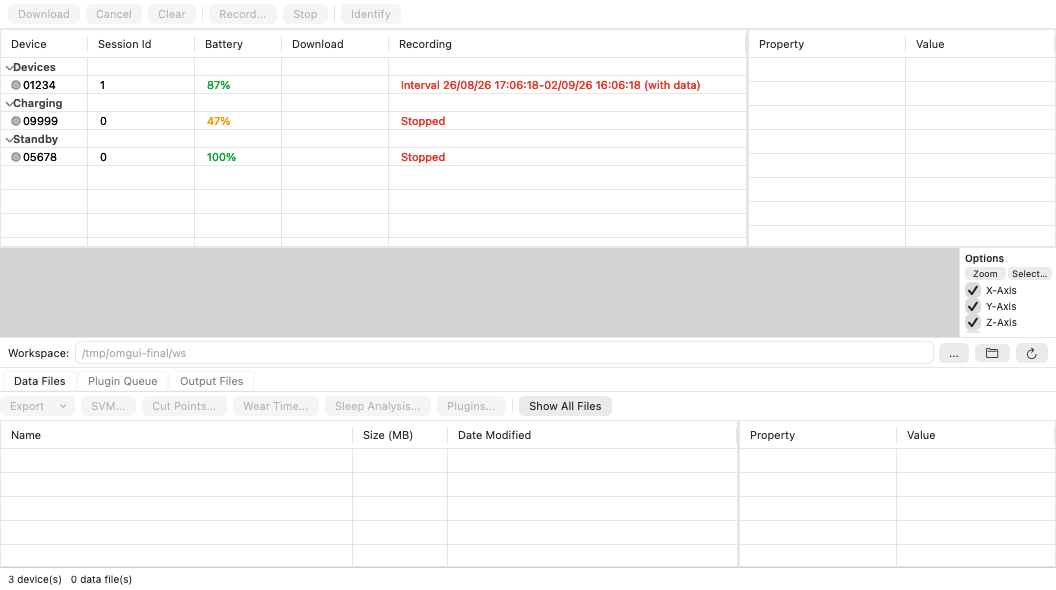
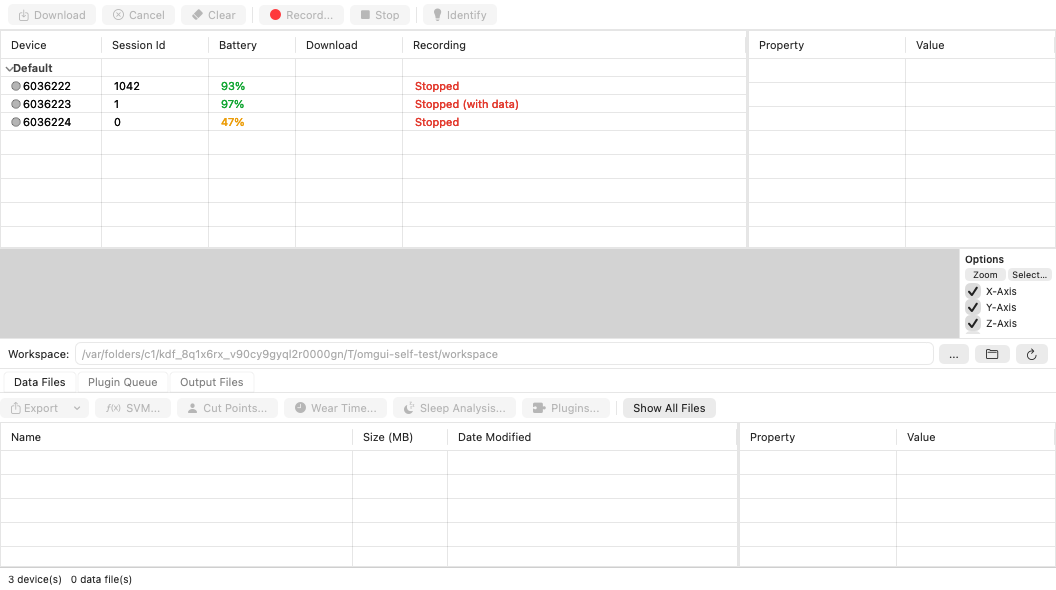
--self-test: assert the refs/08 items the window has to show, and shoot the SOP
Eighteen CHECK lines, and a non-zero exit if any fails. Five of them can only be
made against the running app: the title bar text, the "Default" header read back
out of the NSOutlineView, the Device column measured against its widest cell, the
Record-disabled-with-data rule as the toolbar renders it, and that every SF Symbol
resolves on this OS. The rest -- the initial profile, the gyro warning verbatim,
the Form 2 line in the Log and the status bar -- are asserted where they happen.

The same leg captures the eight screenshots docs/SOP-mac.md embeds, before the run
has touched the devices, and puts the device back the way the rest of the run
expects to find it. The Log is cleared before the record so the screenshot shows
the app's output rather than the transcript; the preview pane is folded away for
the two Data Files shots.

A bare `--self-test` now empties its workspace as well as its mock volumes: a
previous run's recordSetup.xml would hide the "no profile yet" path the MOP's
initial recording profile depends on.

refs/screenshots/01-main-window.png and 06-recording-settings.png refreshed, with
the transcript.

Claude-Session: https://claude.ai/code/session_018VVjoe4ZJFTb1noWa99Xhn

diff --git a/Sources/OmGui/SelfTest+Mop.swift b/Sources/OmGui/SelfTest+Mop.swift
@@ -1,0 +1,207 @@
+import AppKit
+import Foundation
+import OmApi
+import OmGuiCore
+
+/// The MOP-alignment half of `--self-test`.
+///
+/// Two jobs: assert the things `refs/08-aria-mop-omgui-steps.md` pins down that only the running
+/// window can show (the title, the "Default" group header, an un-truncated 7-digit device ID, the
+/// Record-disabled-with-data rule, the toolbar icons), and capture the screenshots
+/// `docs/SOP-mac.md` embeds.
+extension SelfTest {
+
+    /// The text of the device table as the window actually renders it: `[Group]` rows and the
+    /// Device column of each device row, read back out of the `NSOutlineView`.
+    @MainActor
+    static func deviceTableOutline() -> String {
+        guard let root = mainWindow?.contentView else { return "(no window)" }
+        var found: NSOutlineView?
+        func walk(_ view: NSView) {
+            if found == nil, let outline = view as? NSOutlineView,
+               outline.tableColumns.first?.title == "Device" {
+                found = outline
+            }
+            for sub in view.subviews { walk(sub) }
+        }
+        walk(root)
+        guard let outline = found else { return "(no device table)" }
+        var parts: [String] = []
+        for row in 0..<outline.numberOfRows {
+            guard let node = outline.item(atRow: row) as? GroupedTableView.Node else { continue }
+            if node.isGroup { parts.append("[\(node.title)]") }
+            else { parts.append(node.row?.cells.first?.text ?? node.id) }
+        }
+        return parts.joined(separator: " ")
+    }
+
+    /// The width the Device column would need for its widest cell, so a 7-digit ID that is being
+    /// clipped shows up as a failure rather than as a screenshot nobody looks at twice.
+    @MainActor
+    static func deviceColumnFits() -> (fits: Bool, needed: CGFloat, width: CGFloat) {
+        guard let root = mainWindow?.contentView else { return (false, 0, 0) }
+        var found: NSOutlineView?
+        func walk(_ view: NSView) {
+            if found == nil, let outline = view as? NSOutlineView,
+               outline.tableColumns.first?.title == "Device" {
+                found = outline
+            }
+            for sub in view.subviews { walk(sub) }
+        }
+        walk(root)
+        guard let outline = found, let column = outline.tableColumns.first else { return (false, 0, 0) }
+        var needed: CGFloat = 0
+        for row in 0..<outline.numberOfRows {
+            guard let node = outline.item(atRow: row) as? GroupedTableView.Node,
+                  let text = node.row?.cells.first?.text, !text.isEmpty else { continue }
+            let size = (text as NSString).size(withAttributes: [.font: NSFont.systemFont(ofSize: 11)])
+            // The device rows also carry the LED icon plus the cell's own insets.
+            needed = max(needed, size.width + 24)
+        }
+        return (needed <= column.width, needed, column.width)
+    }
+
+    /// Everything in `refs/08` items 1-3, 6 and 9 that needs the running window.
+    @MainActor
+    static func checkMopAlignment(model: AppModel,
+                                  say: @MainActor (String) -> Void,
+                                  expect: @MainActor (Bool, String) -> Void) {
+        // 3. Window title.
+        let title = mainWindow?.title ?? ""
+        say("title: \(title)")
+        expect(title == AppInfo.windowTitle(workspace: model.workspace),
+               "the window title is \"Open Movement [V<version>] - <workspace>\"")
+        expect(title.hasPrefix("Open Movement [V") && title.contains("] - /"),
+               "the title carries a version and an absolute workspace path")
+
+        // 1. One group header, reading "Default".
+        let outline = deviceTableOutline()
+        say("device table: \(outline)")
+        expect(outline.hasPrefix("[\(DeviceGroup.defaultTitle)]"),
+               "the device list has one group header and it reads \"Default\"")
+        expect(outline.components(separatedBy: "[").count == 2,
+               "no other group header is drawn")
+
+        // 9. Seven-digit IDs, in full.
+        let ids = model.rows.map(\.deviceText)
+        say("device IDs: \(ids.joined(separator: ", "))")
+        expect(ids.contains(String(MockDeviceCatalog.mopDeviceId)),
+               "the MOP's device \(MockDeviceCatalog.mopDeviceId) is listed with all seven digits")
+        let fit = deviceColumnFits()
+        say(String(format: "Device column: %.0f pt wide, widest cell needs %.0f pt", fit.width, fit.needed))
+        expect(fit.fits, "the Device column is wide enough for a 7-digit ID")
+
+        // 2. Every toolbar button has an icon that this OS can draw.
+        var missing: [String] = []
+        for (title, icon) in ToolbarIcon.all where icon.nsImage() == nil {
+            missing.append("\(title)=\(icon.symbol)")
+        }
+        say("toolbar icons: " + ToolbarIcon.all.map { "\($0.0)=\($0.1.symbol)" }.joined(separator: " "))
+        expect(missing.isEmpty, "every toolbar icon resolves (missing: \(missing.joined(separator: ", ")))")
+        expect(ToolbarIcon.clear.symbol == "eraser.fill", "Clear has the eraser icon the MOP names")
+    }
+
+    /// The screenshots `docs/SOP-mac.md` embeds, captured from the real window before anything
+    /// else in the run has touched the devices.
+    ///
+    /// It configures a recording on the MOP's device and stops it again, so the rest of the
+    /// self test still finds the device cleared and stopped.
+    @MainActor
+    static func captureSopImages(model: AppModel,
+                                 say: @MainActor (String) -> Void,
+                                 shot: @MainActor (String) async -> Void,
+                                 pause: @MainActor (Double) async -> Void,
+                                 expect: @MainActor (Bool, String) -> Void) async {
+        model.selectedDeviceIds = []
+        model.selectionChanged()
+        await shot("sop-01-main-window.png")
+
+        // 9.4.2 step 2: select the device.
+        model.selectedDeviceIds = [MockDeviceCatalog.mopDeviceId]
+        model.selectionChanged()
+        guard let mopRow = model.rows.first(where: { $0.deviceId == MockDeviceCatalog.mopDeviceId }) else {
+            say("WARNING: the MOP device is not in the list")
+            return
+        }
+        say("MOP device row: \(mopRow.deviceText) | \(mopRow.sessionText) | \(mopRow.batteryText)"
+            + " | \(mopRow.downloadText) | \(mopRow.recordingText)")
+        expect(mopRow.recordingText == "Stopped", "the MOP device reads \"Stopped\"")
+        expect(model.toolbar.record, "Record is live for a cleared device")
+        await shot("sop-02-device-selected.png")
+
+        // 6. The troubleshooting case: a device that still holds data.
+        model.selectedDeviceIds = [MockDeviceCatalog.mopDeviceWithDataId]
+        model.selectionChanged()
+        if let withData = model.rows.first(where: { $0.deviceId == MockDeviceCatalog.mopDeviceWithDataId }) {
+            say("device with data: \(withData.deviceText) recording=\(withData.recordingText)"
+                + " record=\(model.toolbar.record) download=\(model.toolbar.download) clear=\(model.toolbar.clear)")
+            expect(withData.recordingText == "Stopped (with data)",
+                   "a device holding a recording reads \"Stopped (with data)\"")
+            expect(!model.toolbar.record, "Record is greyed out for a device that has data")
+            expect(model.toolbar.download && model.toolbar.clear,
+                   "Download and Clear are live for a device that has data")
+        }
+        await shot("sop-03-record-greyed.png")
+
+        // 9.4.2 steps 3-4: the Recording Settings dialog.
+        model.selectedDeviceIds = [MockDeviceCatalog.mopDeviceId]
+        model.selectionChanged()
+        model.openRecordingSettings()
+        await pause(0.5)
+        guard let sheet = model.recordingSheet else {
+            say("WARNING: the Recording Settings sheet did not open")
+            return
+        }
+        // 5. The MOP's starting values, because this workspace has no recordSetup.xml yet.
+        let seeded = sheet.settings
+        say("initial profile: freq=\(RecordingSettings.frequencyLabels[seeded.frequencyIndex])"
+            + " range=\(RecordingSettings.rangeLabels[seeded.rangeIndex])"
+            + " gyro=\(RecordingSettings.gyroLabels[seeded.gyroIndex])"
+            + " immediately=\(seeded.immediately)")
+        expect(seeded.sampleRate == .hz100 && seeded.accelRange == .g16
+                && seeded.gyroIndex == 0 && seeded.immediately,
+               "a fresh workspace opens at 100 Hz, +-16 g, gyro disabled, Immediately on Disconnect")
+        expect(seeded.hasSyncGyro, "the MOP device is an AX6, so the Gyro combo is shown")
+        let warnings = seeded.validate().warningText ?? ""
+        say("warnings: " + warnings.replacingOccurrences(of: "\n", with: " / "))
+        expect(warnings.contains(RecordingSettings.warningMessages[10]),
+               "the gyro-disabled warning is shown verbatim")
+
+        sheet.settings.sessionId = 1042
+        await pause(0.4)
+        await shot("sop-04-recording-settings.png")
+
+        // The screenshot below is of the Log pane, so drop the transcript this run has been
+        // writing into it: what should be readable is the app's own output.
+        model.clearLog()
+        model.commitRecording(sheet.settings, devices: sheet.devices)
+        model.recordingSheet = nil
+        for _ in 0..<200 where model.progressSheet != nil { await pause(0.1) }
+        await pause(0.6)
+        model.rebuildRows()
+
+        // 8. The Form 2 line, in the Log pane and the status bar.
+        model.showLog = true
+        await pause(0.4)
+        let expected = "Recording configured on \(MockDeviceCatalog.mopDeviceId): session 1042, "
+        let logText = model.logText
+        let statusText = model.statusText
+        await shot("sop-05-record-confirmed.png")
+        model.showLog = false
+        await pause(0.3)
+        say("status bar: \(statusText)")
+        expect(logText.contains(expected),
+               "the Log pane carries \"Recording configured on <id>: session <n>, <date time>\"")
+        expect(statusText.hasPrefix(expected), "the status bar carries the same line")
+
+        // Put the device back the way the rest of the run expects to find it.
+        model.selectedDeviceIds = [MockDeviceCatalog.mopDeviceId]
+        model.selectionChanged()
+        model.stopRecording()
+        for _ in 0..<300 where model.progressSheet != nil { await pause(0.1) }
+        await pause(0.4)
+        model.rebuildRows()
+        model.selectedDeviceIds = []
+        model.selectionChanged()
+    }
+}

diff --git a/Sources/OmGui/SelfTest.swift b/Sources/OmGui/SelfTest.swift
@@ -39,6 +39,14 @@ enum SelfTest {
                 else { say("WARNING: could not capture \(name)") }
             }
 
+            // The run's own assertions: anything false here fails the process, so the
+            // transcript cannot claim a match the window does not show.
+            var failures: [String] = []
+            @MainActor func expect(_ condition: Bool, _ what: String) {
+                say("CHECK \(condition ? "ok" : "FAILED"): \(what)")
+                if !condition { failures.append(what) }
+            }
+
             say("backend = \(model.api.backend.name)")
             say("menu: " + menuOutline())
 
@@ -46,6 +54,10 @@ enum SelfTest {
             // `OmGui --mock --self-test` never writes into whatever workspace was last used.
             if model.options.selfTestUsedDefaults {
                 let scratch = folder.appendingPathComponent("workspace", isDirectory: true)
+                // A fresh workspace every run, for the same reason the mock volumes are reset: a
+                // previous run's `recordSetup.xml` would hide the "no profile yet" path the MOP's
+                // initial recording profile depends on.
+                try? FileManager.default.removeItem(at: scratch)
                 try? FileManager.default.createDirectory(at: scratch, withIntermediateDirectories: true)
                 model.setWorkingFolder(scratch.path, remember: false)
                 let mockRoot = (model.api.backend as? MockBackend)?.root.path ?? "(not the mock)"
@@ -62,6 +74,12 @@ enum SelfTest {
             model.rebuildRows()
             await pause(0.3)
             say("splits: " + splitOutline())
+            await shot("01-main-window.png")
+
+            // --- refs/08: the MOP alignment checks and the SOP screenshots --------------------
+            SelfTest.checkMopAlignment(model: model, say: say, expect: expect)
+            await SelfTest.captureSopImages(model: model, say: say, shot: shot, pause: pause,
+                                            expect: expect)
             await shot("01-main-window.png")
 
             // --- Selection drives the toolbar -----------------------------------------------
@@ -220,6 +238,11 @@ enum SelfTest {
             await SelfTest.runTools(model: model, say: say, shot: shot, pause: pause)
 
             say("prompts answered: \(prompter.transcript.joined(separator: " | "))")
+            guard failures.isEmpty else {
+                say("FAILED: " + failures.joined(separator: "; "))
+                model.shutdown()
+                exit(1)
+            }
             say("done")
             completion()
         }

diff --git a/Sources/OmGui/SelfTest+Tools.swift b/Sources/OmGui/SelfTest+Tools.swift
@@ -38,6 +38,17 @@ extension SelfTest {
         model.pluginQueue.removeAll()
         say("selected \(file.name) -> Data Files toolbar enabled = \(model.fileToolbarEnabled)")
 
+        // MOP §9.4.4 step 2: the downloaded file, selected in Data Files. Captured here rather
+        // than in the download leg so steps 2, 3 and 4 of the SOP are all the same device's file.
+        let hadFileProperties = model.showFileProperties
+        let hadPreviewPane = model.showPreview
+        model.showFileProperties = false
+        model.showPreview = false
+        await pause(0.3)
+        await shot("sop-06-data-files.png")
+        model.showFileProperties = hadFileProperties
+        model.showPreview = hadPreviewPane
+
         @MainActor func settle(_ what: String) async {
             for _ in 0..<600 where model.jobs.isBusy { await pause(0.1) }
             model.refreshFiles()
@@ -71,12 +82,26 @@ extension SelfTest {
             + " time=\(rawCsv.rawCsv.timestamp.flag)")
         say("command: " + OmConvertJob.rawCsv(rawCsv.rawCsv).commandLine)
         await shot("15-export-raw-csv.png")
+        // MOP §9.4.4 step 3.
+        await shot("sop-07-export-raw-csv.png")
         rawCsv.onRun?(rawCsv)
         model.exportSheet = nil
         model.pendingRawCsv.removeAll()
         await settle("after Export Raw CSV")
         expect(hasOutput(".csv"), "Raw CSV appeared in Output Files")
         await shot("15-export-output.png")
+        // MOP §9.4.4 step 4: the exported file, ready to be renamed and uploaded. Nothing is
+        // selected and the preview is folded away (View ▸ Preview), so the shot is of the Output
+        // Files list rather than of the plot the viewer leg left behind.
+        model.selectedDeviceIds = []
+        model.selectedFilePaths = []
+        model.fileSelectionChanged()
+        let hadPreview = model.showPreview
+        model.showPreview = false
+        model.filesTab = 2
+        await shot("sop-08-output-files.png")
+        model.filesTab = 0
+        model.showPreview = hadPreview
 
         // --- A tool: SVM, which resamples to .wav first and then runs the analysis -------------
         model.filesTab = 0
